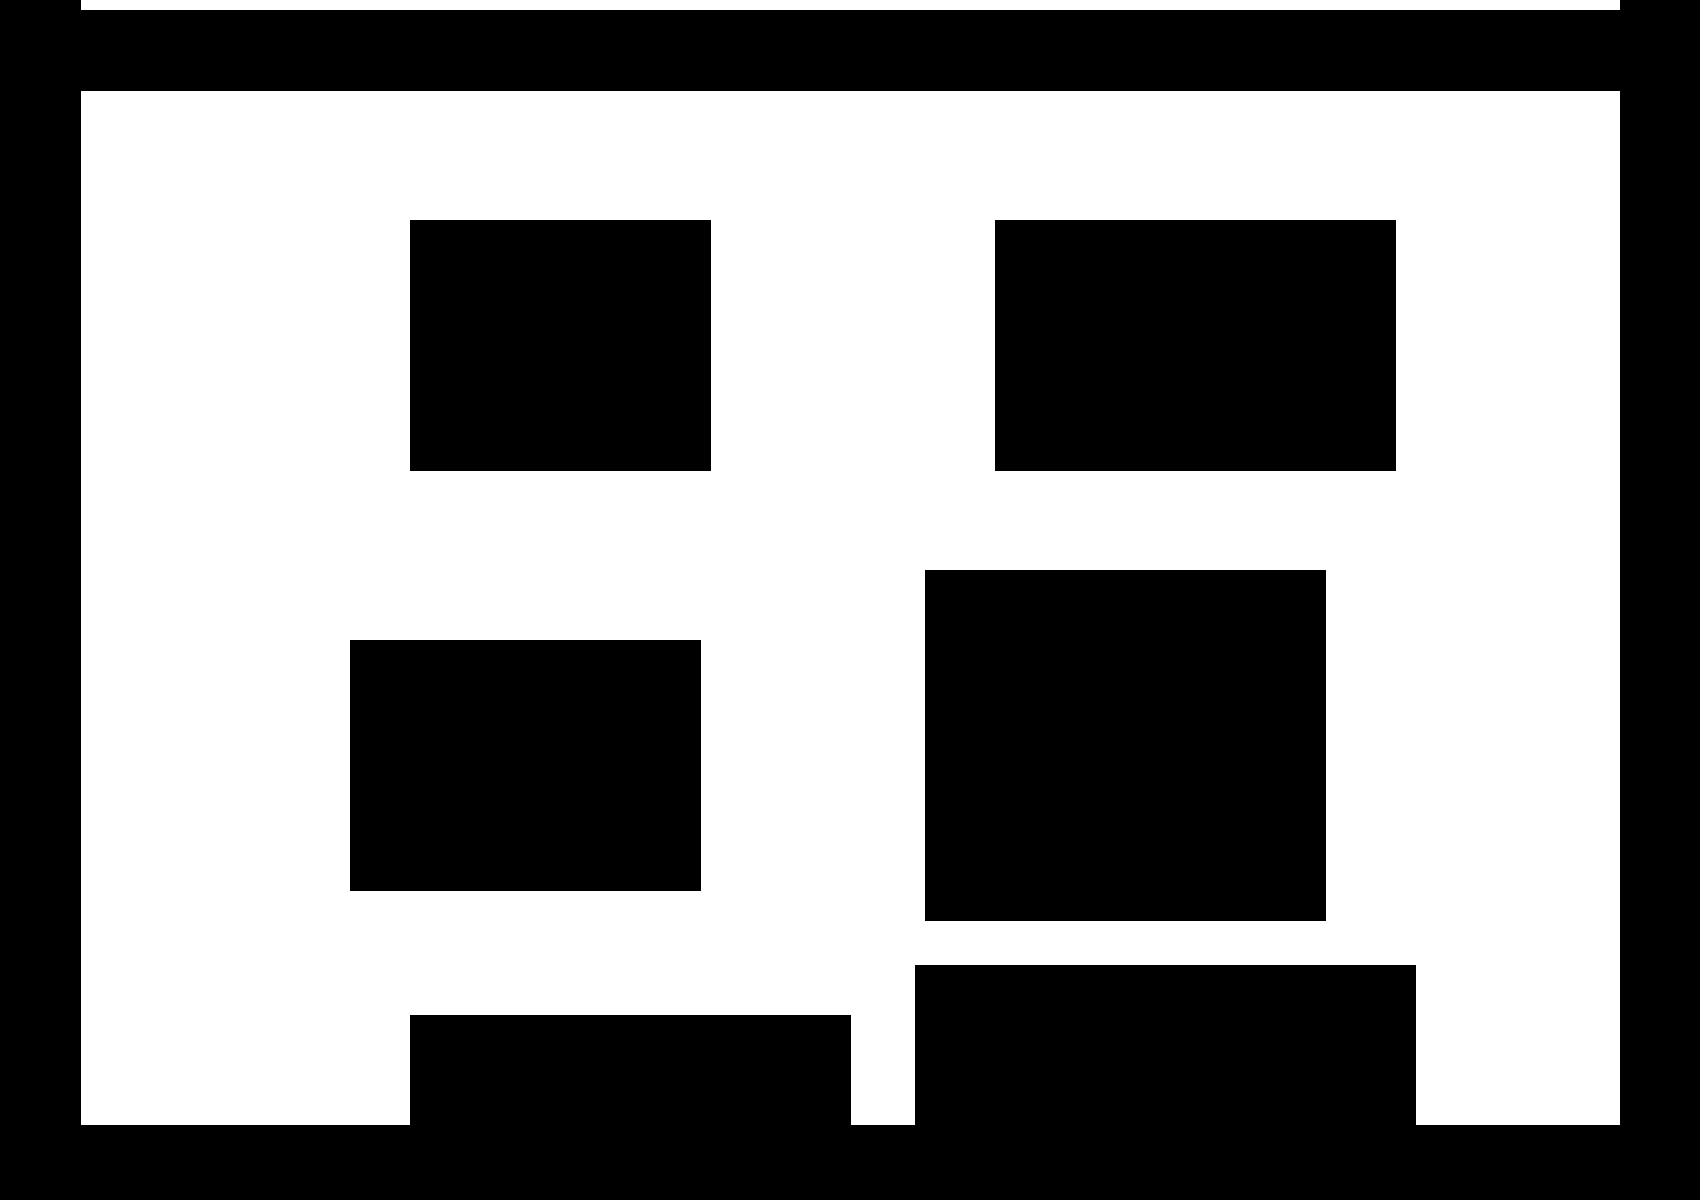
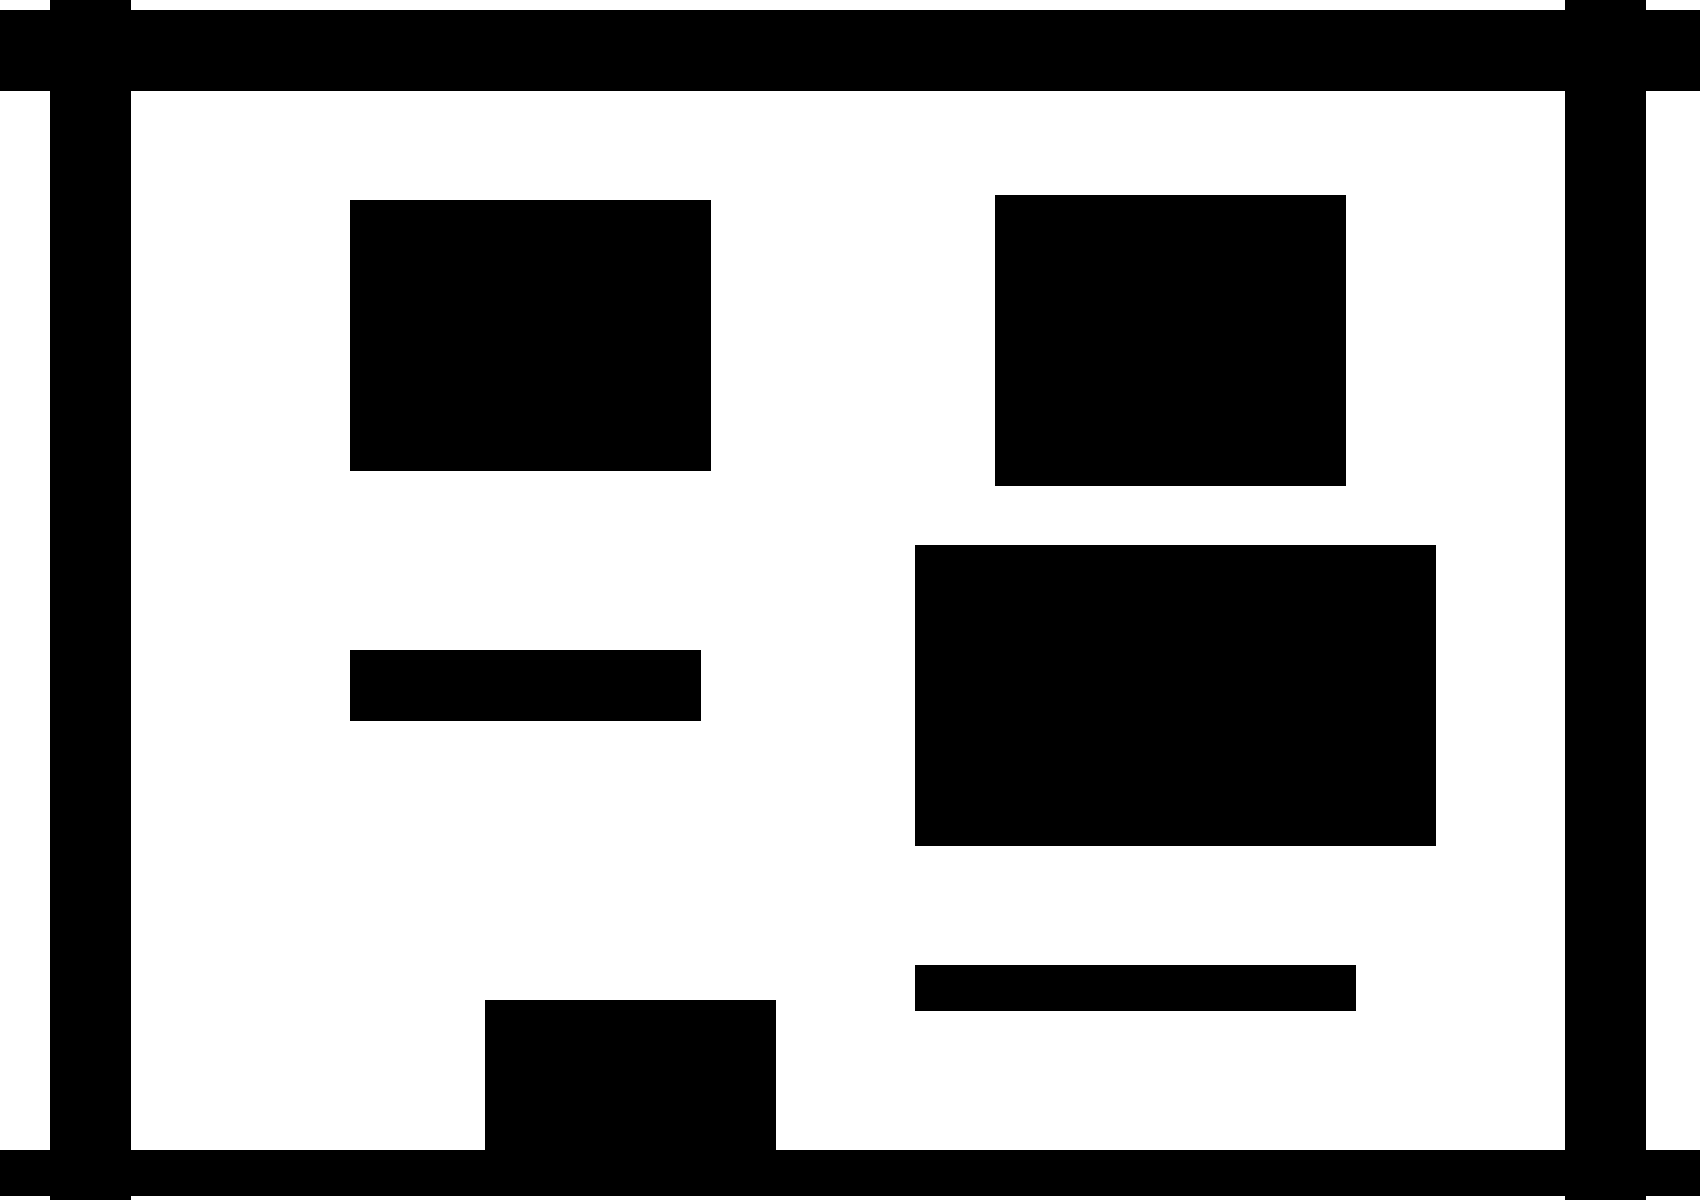
feat: changed map config

diff --git a/main.py b/main.py
@@ -37,7 +37,7 @@ def load_world_background(path: str) -> pygame.Surface:
 
 def load_collision_mask(path: str) -> pygame.Surface:
     """Load collision mask image for collision detection."""
-    return load_image(path)
+    return pygame.image.load(path).convert_alpha()
 
 
 def generate_collision_mask(path: str) -> None:
@@ -117,6 +117,33 @@ def update_collision_box(box_key: str, dx: int = 0, dy: int = 0, resize_x: int =
     y2 = max(y1 + 10, min(y2, WORLD_HEIGHT))
     
     COLLISION_BOXES[box_key]["coords"] = [(x1, y1), (x2, y2)]
+
+
+class Button:
+    """Simple button class for GUI."""
+    def __init__(self, x: int, y: int, width: int, height: int, label: str):
+        self.rect = pygame.Rect(x, y, width, height)
+        self.label = label
+        self.hover = False
+    
+    def draw(self, surface: pygame.Surface, font: pygame.font.Font, color: tuple = (255, 255, 255)):
+        """Draw button on surface."""
+        bg_color = (100, 100, 100) if self.hover else (60, 60, 60)
+        pygame.draw.rect(surface, bg_color, self.rect)
+        pygame.draw.rect(surface, (200, 200, 200), self.rect, 2)
+        
+        text = font.render(self.label, True, color)
+        text_rect = text.get_rect(center=self.rect.center)
+        surface.blit(text, text_rect)
+    
+    def check_hover(self, pos: tuple) -> bool:
+        """Check if mouse is hovering over button."""
+        self.hover = self.rect.collidepoint(pos)
+        return self.hover
+    
+    def is_clicked(self, pos: tuple) -> bool:
+        """Check if button was clicked."""
+        return self.rect.collidepoint(pos)
 
 
 def save_collision_config(filename: str = "maps/collision_config.json") -> None:
@@ -213,6 +240,12 @@ def main() -> None:
     selected_box = "1_top_border"
     box_keys = list(COLLISION_BOXES.keys())
     collision_dirty = False
+    
+    # Create editor buttons for width/height adjustment
+    btn_width_minus = Button(50, 650, 40, 30, "W-")
+    btn_width_plus = Button(100, 650, 40, 30, "W+")
+    btn_height_minus = Button(150, 650, 40, 30, "H-")
+    btn_height_plus = Button(200, 650, 40, 30, "H+")
 
     pygame.key.set_repeat(500, 100)  # Initial delay: 500ms, repeat: 100ms
 
@@ -289,6 +322,29 @@ def main() -> None:
                     move_up = False
                 elif event.key in (pygame.K_s, pygame.K_DOWN):
                     move_down = False
+            
+            elif event.type == pygame.MOUSEMOTION:
+                # Update button hover states
+                if DEBUG_MODE:
+                    btn_width_minus.check_hover(event.pos)
+                    btn_width_plus.check_hover(event.pos)
+                    btn_height_minus.check_hover(event.pos)
+                    btn_height_plus.check_hover(event.pos)
+            
+            elif event.type == pygame.MOUSEBUTTONDOWN and DEBUG_MODE:
+                # Handle button clicks
+                if btn_width_minus.is_clicked(event.pos):
+                    update_collision_box(selected_box, resize_x=-10, resize_y=0)
+                    collision_dirty = True
+                elif btn_width_plus.is_clicked(event.pos):
+                    update_collision_box(selected_box, resize_x=10, resize_y=0)
+                    collision_dirty = True
+                elif btn_height_minus.is_clicked(event.pos):
+                    update_collision_box(selected_box, resize_x=0, resize_y=-10)
+                    collision_dirty = True
+                elif btn_height_plus.is_clicked(event.pos):
+                    update_collision_box(selected_box, resize_x=0, resize_y=10)
+                    collision_dirty = True
 
         # Regenerate collision mask if dirty
         if collision_dirty:
@@ -395,6 +451,12 @@ def main() -> None:
             for i, line in enumerate(debug_lines):
                 debug_text = small_font.render(line, True, (255, 100, 100))
                 screen.blit(debug_text, (20, 50 + i * 25))
+            
+            # Draw width/height adjustment buttons
+            btn_width_minus.draw(screen, small_font)
+            btn_width_plus.draw(screen, small_font)
+            btn_height_minus.draw(screen, small_font)
+            btn_height_plus.draw(screen, small_font)
 
         pygame.display.flip()
         clock.tick(60)